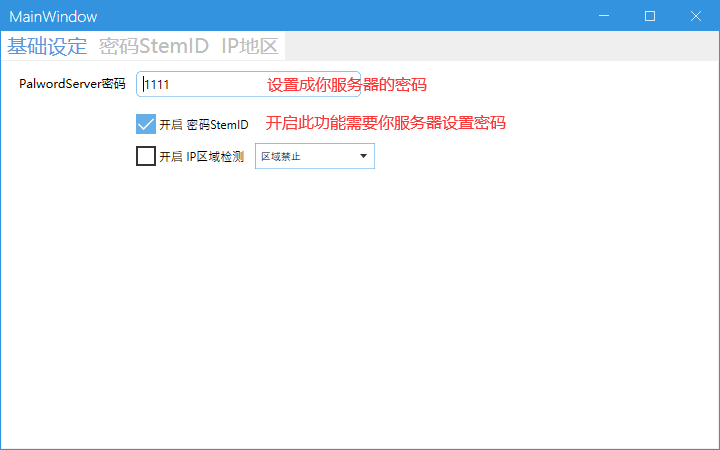
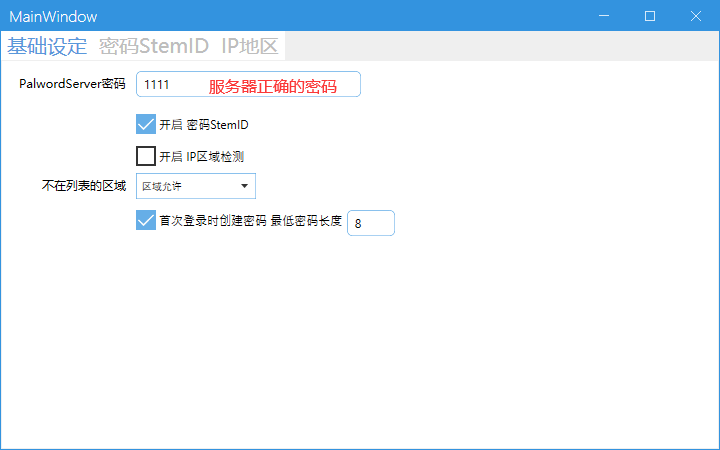
新增 黑名单功能

diff --git a/PalwordAuthorize/Pages/AccountSettingPage.xaml b/PalwordAuthorize/Pages/AccountSettingPage.xaml
@@ -117,10 +117,17 @@
                                     </DataTemplate>
                                 </GridViewColumn.CellTemplate>
                             </GridViewColumn>
-                            <GridViewColumn Width="125" Header="区域">
+                            <GridViewColumn Width="125" Header="国家">
                                 <GridViewColumn.CellTemplate>
                                     <DataTemplate>
                                         <TextBox Text="{Binding Country}" />
+                                    </DataTemplate>
+                                </GridViewColumn.CellTemplate>
+                            </GridViewColumn>
+                            <GridViewColumn Width="125" Header="城市">
+                                <GridViewColumn.CellTemplate>
+                                    <DataTemplate>
+                                        <TextBox Text="{Binding City}" />
                                     </DataTemplate>
                                 </GridViewColumn.CellTemplate>
                             </GridViewColumn>
@@ -128,6 +135,45 @@
                                 <GridViewColumn.CellTemplate>
                                     <DataTemplate>
                                         <ComboBox ItemsSource="{Binding Source={StaticResource EnumCountryCheckType}}" SelectedItem="{Binding CountryCheckType}"/>
+                                    </DataTemplate>
+                                </GridViewColumn.CellTemplate>
+                            </GridViewColumn>
+                        </GridView>
+                    </ListView.View>
+                </ListView>
+            </TabItem>
+            <TabItem Header="黑名单">
+                <ListView x:Name="uiBlackList" ScrollViewer.HorizontalScrollBarVisibility ="Auto" ScrollViewer.VerticalScrollBarVisibility="Auto" IsSynchronizedWithCurrentItem="True" >
+                    <ListView.Resources>
+                        <ObjectDataProvider
+                                        x:Key="EnumCountryCheckType"
+                                        MethodName="GetValues"
+                                        ObjectType="{x:Type mscorlib:Enum}">
+                            <ObjectDataProvider.MethodParameters>
+                                <x:Type TypeName="ETSystem:ECountryCheckType">
+                                </x:Type>
+                            </ObjectDataProvider.MethodParameters>
+                        </ObjectDataProvider>
+                    </ListView.Resources>
+                    <ListView.ContextMenu>
+                        <ContextMenu>
+                            <MenuItem x:Name="mi_BlackList_add" Header="新增" Click="mi_BlackList_add_Click"/>
+                            <MenuItem x:Name="mi_BlackList_del" Header="删除" Click="mi_BlackList_del_Click"/>
+                        </ContextMenu>
+                    </ListView.ContextMenu>
+                    <ListView.View>
+                        <GridView>
+                            <GridViewColumn Width="32" Header="啟用">
+                                <GridViewColumn.CellTemplate>
+                                    <DataTemplate>
+                                        <CheckBox IsChecked="{Binding Enable}" />
+                                    </DataTemplate>
+                                </GridViewColumn.CellTemplate>
+                            </GridViewColumn>
+                            <GridViewColumn Width="175" Header="SteamID或IP">
+                                <GridViewColumn.CellTemplate>
+                                    <DataTemplate>
+                                        <TextBox Text="{Binding Text}" />
                                     </DataTemplate>
                                 </GridViewColumn.CellTemplate>
                             </GridViewColumn>

diff --git a/PalwordAuthorize/Mudebug/HttpServer.cs b/PalwordAuthorize/Mudebug/HttpServer.cs
@@ -92,44 +92,37 @@ namespace ET
                     var json = JObject.Parse(content);
                     var RemoteAddress = json["RemoteAddress"].ToString();
                     var hexBuffer = json["BitHex"].ToString().FormatBytes();
+
+                    var ip_data = RemoteAddress.Split(':');
+                    if (ip_data.Length != 2 || ip_data[0].Length == 0)
+                    {
+                        Log.Info($"解析IP数据错误:{RemoteAddress}");
+                        return BuildFail(RemoteAddress, -1).ToString();
+                    }
+
+
                     FBitReader fbr = new FBitReader(hexBuffer);
                     fbr.Pos = 8;
                     var ServerName = fbr.ReadString();
                     var Parameter = fbr.ReadString();
                     var SteamID = fbr.ReadUniqueNetId();
                     var ClientType = fbr.ReadString();
-                    var ipCountry = "";
+                    IPData ipData = null;
+
+
+                    var blacklist = MainConfig.Instance.BlackList.FirstOrDefault(t => t.Enable && (t.Text == SteamID || t.Text == ip_data[0]));
+                    if (blacklist != null)
+                    {
+                        Log.Info($"该用户是黑名单:{SteamID} {ip_data[0]}");
+                        return BuildFail(RemoteAddress, -2).ToString();
+                    }
 
                     if (MainConfig.Instance.EnableCountryCheck)
                     {
-                        var ip_data = RemoteAddress.Split(':');
-                        if (ip_data.Length != 2 || ip_data[0].Length == 0)
+                        ipData = await IPCountryPool.Instance.GetCountry(ip_data[0]);
+                        if (!IPCheck(ipData))
                         {
-                            return BuildFail(RemoteAddress, -1).ToString();
-                        }
-
-                        var ok = false;
-                        ipCountry = await IPCountryPool.Instance.GetCountry(ip_data[0]);
-                        var c_data = MainConfig.Instance.CountryCheckList.FirstOrDefault(t => t.Enable && t.Country == ipCountry);
-                        if (c_data != null)
-                        {
-                            if (c_data.CountryCheckType == ECountryCheckType.区域允许)
-                            {
-                                ok = true;
-                            }
-                        }
-                        else
-                        {
-                            //其他区域禁止
-                            if (MainConfig.Instance.OtherCountryCheckType == ECountryCheckType.区域允许)
-                            {
-                                ok = true;
-                            }
-                        }
-
-                        if (!ok)
-                        {
-                            Log.Info($"用户区域被禁止:{RemoteAddress} [{ipCountry}] [{SteamID}]");
+                            Log.Info($"用户IP被禁止:{RemoteAddress} [{SteamID}] [{ipData?.Country}][{ipData?.City}]");
                             return BuildFail(RemoteAddress, -2).ToString();
                         }
                     }
@@ -147,9 +140,9 @@ namespace ET
                         {
                             if (MainConfig.Instance.AutoUserCreatePassword)
                             {
-                                if (userPassword.Length < MainConfig.Instance.AutoUserCreatePasswordLenth)
+                                if ((userPassword.Length < MainConfig.Instance.AutoUserCreatePasswordLenth)&&(userPassword.Length > 24))
                                 {
-                                    Log.Info($"密码长度不足不予创建:{SteamID} {RemoteAddress} [{userPassword}]");
+                                    Log.Info($"密码长度不符不予创建:{SteamID} {RemoteAddress} [{userPassword}]");
                                     return BuildFail(RemoteAddress, -4).ToString();
                                 }
                                 p_data = MainConfig.Instance.PasswordUserList.FirstOrDefault(t=>t.SteamID == SteamID);
@@ -186,12 +179,12 @@ namespace ET
                     
                     if (p_data != null)
                     {
-                        Log.Info($"登录成功:{RemoteAddress} [{p_data.SteamID}] {ipCountry}");
+                        Log.Info($"登录成功:{RemoteAddress} [{p_data.SteamID}] [{ipData?.Country}][{ipData?.City}]");
                         return BuildSuccess(RemoteAddress, fbr, p_data.SteamID).ToString();
                     }
                     else
                     {
-                        Log.Info($"登录成功:{RemoteAddress} [{SteamID}] {ipCountry}");
+                        Log.Info($"登录成功:{RemoteAddress} [{SteamID}] [{ipData?.Country}][{ipData?.City}]");
                         return BuildSuccess(RemoteAddress, fbr, SteamID).ToString();
                     }
                 }
@@ -199,9 +192,37 @@ namespace ET
             return "{\"code\":-99}";
         }
 
+
+        private bool IPCheck(IPData ipData)
+        {
+            var c_data = MainConfig.Instance.CountryCheckList.FirstOrDefault(t => t.Enable && t.Country == ipData.Country && t.City == ipData.City);
+            if (c_data != null)
+            {
+                if (c_data.CountryCheckType == ECountryCheckType.区域允许)
+                {
+                    return true;
+                }
+                return false;
+            }
+            c_data = MainConfig.Instance.CountryCheckList.FirstOrDefault(t => t.Enable && t.Country == ipData.Country && t.City == "ALL");
+            if (c_data != null)
+            {
+                if (c_data.CountryCheckType == ECountryCheckType.区域允许)
+                {
+                    return true;
+                }
+                return false;
+            }
+            if (MainConfig.Instance.OtherCountryCheckType == ECountryCheckType.区域允许)
+            {
+                return true;
+            }
+            return false;
+        }
+
     }
 
-
+    
 
     public static class TextResponseSerializer
     {

diff --git a/PalwordAuthorize/Mudebug/IPCountryPool.cs b/PalwordAuthorize/Mudebug/IPCountryPool.cs
@@ -12,55 +12,65 @@ using System.Threading.Tasks;
 
 namespace ET
 {
+    public class IPData
+    {
+        public int hash;
+        public string Country;
+        public string City;
+    }
+
     [Singleton]
     public class IPCountryPool : Singleton<IPCountryPool>, ISingletonAwake
     {
-        private List<(int hash, string Country)> IPHashAndCountry;
+        private List<IPData> IPHashAndCountry;
         public void Awake()
         {
-            IPHashAndCountry = new List<(int hash, string Country)>(200);
+            IPHashAndCountry = new List<IPData>(200);
         }
-        public void PushHistoryCountry(int iphash, string Country)
+        public IPData PushHistoryCountry(int iphash, string country, string city)
         {
-            IPHashAndCountry.Add((iphash, Country));
+            var data = new IPData() { hash = iphash, Country = country, City = city };
+            IPHashAndCountry.Add(data);
             if (IPHashAndCountry.Count > 198)
             {
                 IPHashAndCountry.RemoveAt(0);
             }
+            return data;
         }
-        public async ETTask<string> GetCountry(string ip)
+        public async ETTask<IPData> GetCountry(string ip)
         {
             var hash = ip.GetHashCode();
             var history = IPHashAndCountry.FirstOrDefault(t => t.hash == hash);
-            if (history.hash != 0)
+            if (history != null)
             {
-                return history.Country;
+                return history;
             }
 
             var jsonString = await $"http://ip-api.com/json/{ip}?time={TimeInfo.Instance.ClientNow()}".GetStringAsync();
             if (jsonString == null || jsonString[0] != '{')
             {
-                return "";
+                return null;
             }
             var retJson = JObject.Parse(jsonString);
             if (retJson["status"].ToString() == "success")
             {
                 var sCountry = retJson["country"].ToString();
+                var sCity = retJson["city"].ToString();
                 var sIsp = retJson["isp"].ToString();
-                Log.Info($"ip:{ip} country:{sCountry} isp:{sIsp}");
-                PushHistoryCountry(hash, sCountry);
-                return sCountry;
+                Log.Info($"ip:{ip} country:{sCountry} isp:{sIsp} city:{sCity}");
+                var data = PushHistoryCountry(hash, sCountry, sCity);
+                return data;
             }else
             {
                 var message = retJson["message"].ToString();
                 if (message == "private range" || ip == "127.0.0.1")
                 {
                     Log.Info($"ip:{ip} country:private");
-                    PushHistoryCountry(hash, "private");
-                    return "private";
+                    var data = PushHistoryCountry(hash, "private", "ALL");
+                    return data;
                 }
             }
-            return "";
+            return null;
         }
     }
 }

diff --git a/PalwordAuthorize/Pages/AccountSettingPage.xaml.cs b/PalwordAuthorize/Pages/AccountSettingPage.xaml.cs
@@ -36,6 +36,7 @@ namespace ConsoleApp.Pages
 
             uiPasswordUserList.ItemsSource = MainConfig.Instance.PasswordUserList;
             uiCountryCheckList.ItemsSource = MainConfig.Instance.CountryCheckList;
+            uiBlackList.ItemsSource = MainConfig.Instance.BlackList;
 
             LoadingUi = false;
         }
@@ -64,7 +65,7 @@ namespace ConsoleApp.Pages
 
         private void mi_CountryCheckList_add_Click(object sender, RoutedEventArgs e)
         {
-            MainConfig.Instance.CountryCheckList.Add(new CountryCheckData() { Enable = false,  Country= "private" });
+            MainConfig.Instance.CountryCheckList.Add(new CountryCheckData() { Enable = false,  Country= "private", City="ALL" });
         }
 
         private void mi_CountryCheckList_del_Click(object sender, RoutedEventArgs e)
@@ -72,6 +73,18 @@ namespace ConsoleApp.Pages
             var select = uiCountryCheckList.SelectedItem as CountryCheckData;
             if (select == null) return;
             MainConfig.Instance.CountryCheckList.Remove(select);
+        }
+
+        private void mi_BlackList_add_Click(object sender, RoutedEventArgs e)
+        {
+            MainConfig.Instance.BlackList.Add(new StringConfig() { Enable = true, Text = "SteamID或IP" });
+        }
+
+        private void mi_BlackList_del_Click(object sender, RoutedEventArgs e)
+        {
+            var select = uiCountryCheckList.SelectedItem as StringConfig;
+            if (select == null) return;
+            MainConfig.Instance.BlackList.Remove(select);
         }
     }
 }

diff --git a/PalwordAuthorize/Mudebug/MainConfig.cs b/PalwordAuthorize/Mudebug/MainConfig.cs
@@ -1,4 +1,5 @@
-using Newtonsoft.Json;
+using MongoDB.Bson.Serialization.Attributes;
+using Newtonsoft.Json;
 using System;
 using System.Collections.Generic;
 using System.Collections.ObjectModel;
@@ -34,9 +35,16 @@ namespace ET
         public event PropertyChangedEventHandler PropertyChanged;
         public bool Enable { get; set; }
         public string Country { get; set; }
+        public string City { get; set; } = "ALL";
         public ECountryCheckType CountryCheckType { get; set; }
     }
 
+    [BsonIgnoreExtraElements]
+    public class StringConfig
+    {
+        public bool Enable { get; set; } = true;
+        public string Text { get; set; }
+    }
 
     public class MainConfig : Singleton<MainConfig>, ISingletonAwake, INotifyPropertyChanged
     {
@@ -73,5 +81,8 @@ namespace ET
 
         public bool AutoUserCreatePassword { get; set; } = false;
         public int AutoUserCreatePasswordLenth { get; set; } = 8;
+
+        public ObservableCollection<StringConfig> BlackList { get; private set; } = new ObservableCollection<StringConfig>();
+        
     }
 }

diff --git a/README.md b/README.md
@@ -7,9 +7,11 @@
 需要为帕鲁服务器设置一个密码，然后才能使用SteamID密码功能<br>
 根据用户输入不同的密码进入SteamID<br>
 例如输入密码1111是角色A，输入密码2222是角色B<br>
+反夺舍,即便暴露SteamID也不会被上号<br>
 
 可对密码设置过期时间，如果超过设定时间既无法登录角色<br>
 既不需要关闭客户端就能切换帐号，也可作为SteamID授权用<br>
+
 
 
 同时 可以禁止或者只允许某个国家的IP进入服务器<br>
